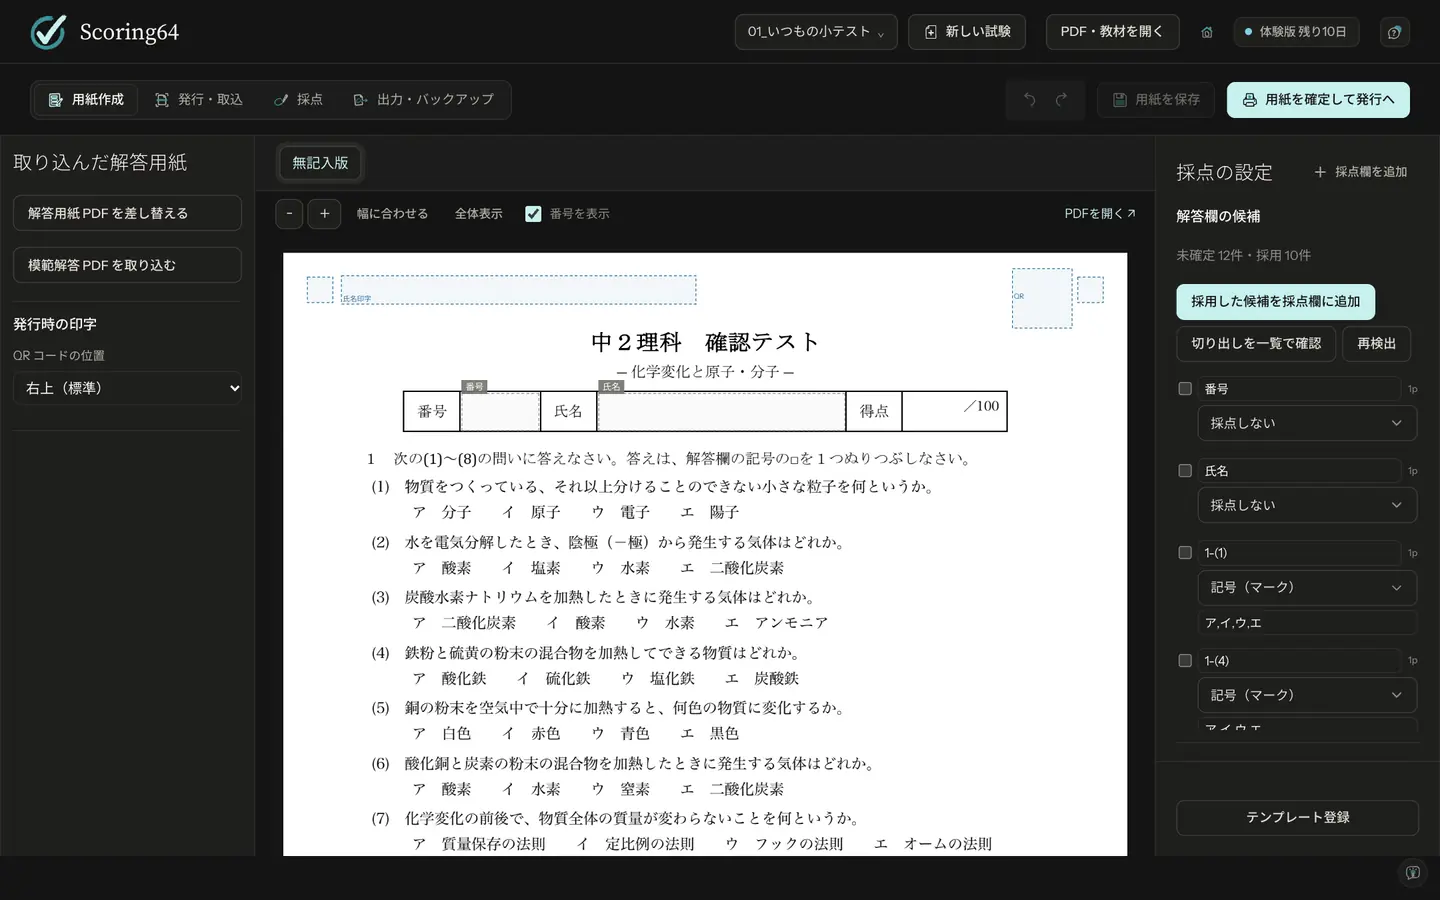
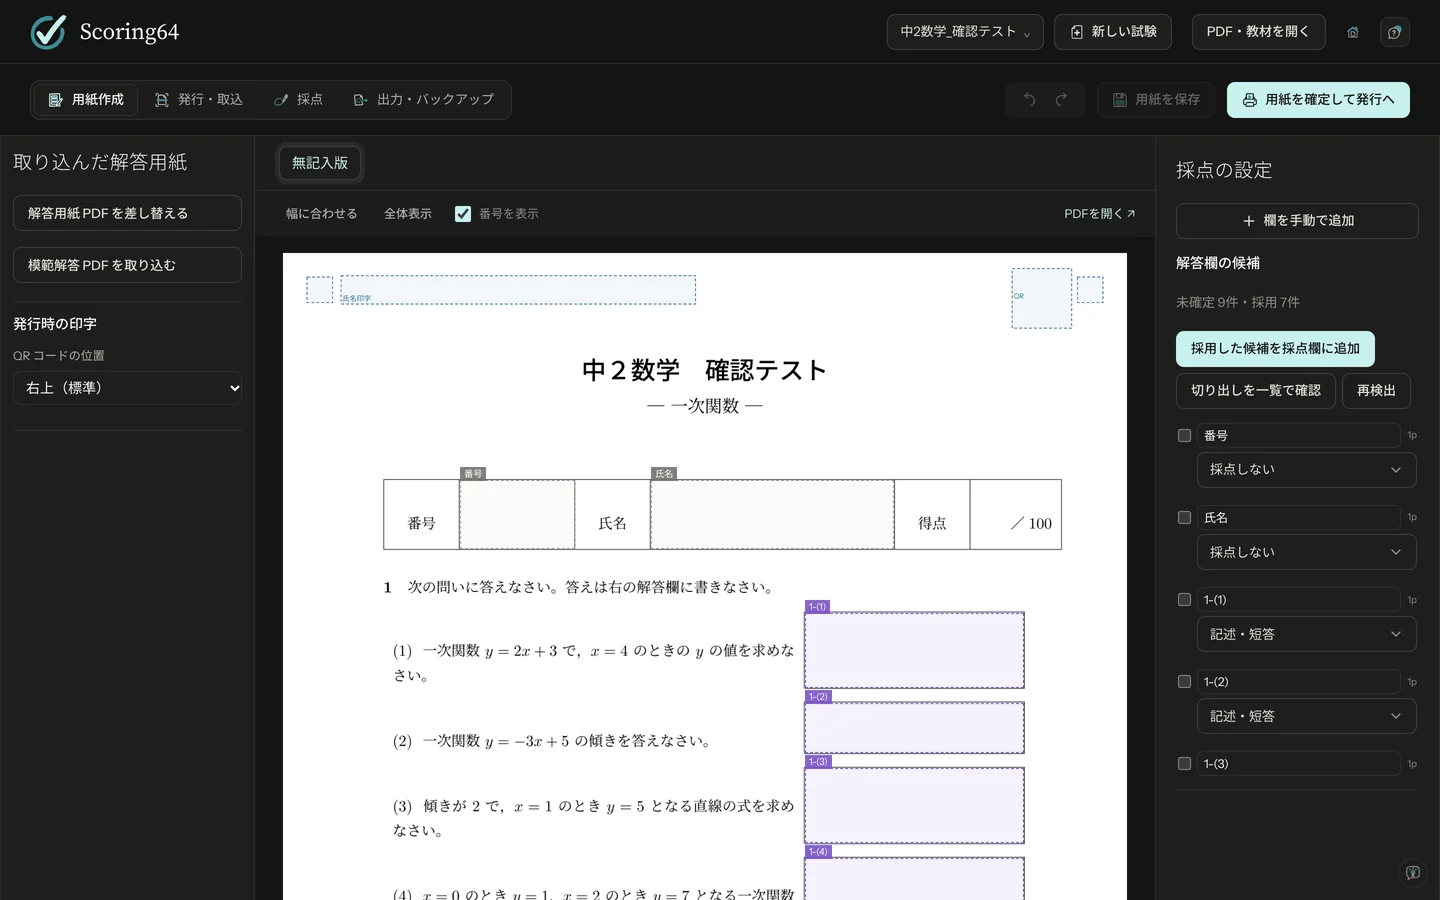
Update help site for 1.0.8: retaken screenshots, manual field panel, key table, 東大 and practice sheets
- Retake every page image from v1.0.8 (welcome, import, crop check, answer key,
  issue panel, scans, grading, export, free mark reader); the import and grading
  shots use a text-answer quiz and the free reader uses KKran oval bubbles
- Add the 「欄を手動で追加」 steps with a new screenshot (s07-manual.webp)
- Describe the reworked key table (正解を続けて入力, 配点をそろえる,
  Excelから貼り付け, 満点（予定）, warnings before confirming) and the mode names
- 東大 sheets are A3 only; add the 数学・理科 practice sheets (A4・B5), the docked
  text editor, numbering and sub-headings
- Point the README Mac link at the published Scoring64-mac-arm64.zip; FAQ and
  contact wording for 1.0.8

diff --git a/guide.html b/guide.html
@@ -75,15 +75,27 @@
       </ol>
       <div class="note">
         <span class="note-label">NOTE</span>
-        <p>候補は、見落としや間違いが出ることがあります。必ず目で確かめてください。足りない欄は<span class="ui">「採点欄を追加」</span>で描き足せます。</p>
+        <p>候補は、見落としや間違いが出ることがあります。必ず目で確かめてください。足りない欄は、右の欄の<span class="ui">「欄を手動で追加」</span>で描き足せます（<a href="#manual">下の手順</a>）。</p>
       </div>
       <figure class="shot wide">
-        <a class="zoom" href="assets/img/s06-import.webp"><img src="assets/img/s06-import.webp" width="1440" height="900" loading="lazy" alt="Wordで作った理科の小テストを取り込んだ画面。記号の欄が橙、記述の欄が紫の枠で囲まれ、右に解答欄の候補の一覧が出ている"></a>
-        <figcaption><span class="fig-no">図 1</span>Word のプリントを取り込んだところ。枠と空欄を候補として出します</figcaption>
+        <a class="zoom" href="assets/img/s06-import.webp"><img src="assets/img/s06-import.webp" width="1440" height="900" loading="lazy" alt="数学の小テストのPDFを取り込んだ画面。解答欄が紫の枠で囲まれ、右に「欄を手動で追加」のボタンと解答欄の候補の一覧が出ている"></a>
+        <figcaption><span class="fig-no">図 1</span>プリントのPDFを取り込んだところ。枠と空欄を候補として出します</figcaption>
       </figure>
       <figure class="shot wide">
         <a class="zoom" href="assets/img/s07-crop-check.webp"><img src="assets/img/s07-crop-check.webp" width="1440" height="900" loading="lazy" alt="切り出しの一覧。問題ごとに切り出す範囲が並んでいる"></a>
         <figcaption><span class="fig-no">図 2</span>切り出しの確認</figcaption>
+      </figure>
+      <h3 id="manual">欄を手動で追加する</h3>
+      <ol class="steps">
+        <li>右の欄の<span class="ui">「欄を手動で追加」</span>を押します。</li>
+        <li>紙面をドラッグして、足したい範囲を囲みます。囲み直すと範囲を置きかえます。</li>
+        <li>右に出る設定で、欄名・種類（氏名・番号・解答欄・その他）・採点するかどうか・所属を選びます。ページや枠をまたぐ解答は、所属を<span class="ui">「既存の欄の続き」</span>にすると同じ問題として採点します。</li>
+        <li><span class="ui">「追加する」</span>を押します。続けて囲むと、次の欄を足せます。終わったら<span class="ui">「追加を終える」</span>を押します。</li>
+      </ol>
+      <p>追加した範囲は、選んでから <span class="key">Delete</span> で消せます。矢印キーで動かし、<span class="key">Shift</span> + 矢印キーで大きさを変えられます。</p>
+      <figure class="shot wide">
+        <a class="zoom" href="assets/img/s07-manual.webp"><img src="assets/img/s07-manual.webp" width="1440" height="900" loading="lazy" alt="欄を手動で追加の画面。紙面の得点の欄をドラッグで囲み、右に欄名・種類・採点・所属の設定と「追加する」のボタンが出ている"></a>
+        <figcaption><span class="fig-no">図 3</span>欄を手動で追加。囲んだ範囲を、右の設定で追加します</figcaption>
       </figure>
       <div class="caution">
         <span class="note-label">TIPS · プリントを作るとき</span>
@@ -98,13 +110,15 @@
         <summary>アプリで用紙を作るときの操作</summary>
         <div>
           <ol class="steps">
-            <li><span class="ui">「新しい試験」</span>で試験名を入れ、最初の用紙を選びます。<span class="ui">「番号・氏名欄付きの文書」</span>が最初に選ばれています。<span class="ui">「白紙の文書」</span>、<span class="ui">「共通テスト用マークシート」</span>（22科目）、<span class="ui">「登録したテンプレートから作成」</span>（東大の編集版8種を含む）、<span class="ui">「これまでの試験を複製」</span>からも始められます。</li>
+            <li><span class="ui">「新しい試験」</span>で試験名を入れ、最初の用紙を選びます。<span class="ui">「番号・氏名欄付きの文書」</span>が最初に選ばれています。<span class="ui">「白紙の文書」</span>、<span class="ui">「共通テスト用マークシート」</span>（22科目）、<span class="ui">「登録したテンプレートから作成」</span>（東大の解答用紙と、数学・理科の練習用解答用紙を含む）、<span class="ui">「これまでの試験を複製」</span>からも始められます。</li>
             <li>紙面をクリックして追加する位置を決め、<span class="ui">「＋ 部品を追加」</span>で解答欄・文字・数式・図などを置きます。欄は、<span class="ui">「追加先」</span>に出ている大問に入ります。自動のままでも、大問を選んでもかまいません。</li>
-            <li>紙面の何もないところをドラッグすると、触れた欄をまとめて選べます（<span class="key">Ctrl</span> + <span class="key">A</span> ですべて）。選んだ欄は、<span class="key">Ctrl</span> + <span class="key">C</span>・<span class="key">X</span>・<span class="key">V</span> でコピー・切り取り・貼り付けできます。</li>
+            <li>文字や数式の部品は、追加するとすぐ横に入力欄が開きます。書きかけの数式も消えません。</li>
+            <li>番号は、置いた大問の中で順に振られます。番号の囲み（(1)・①など）は欄ごとに選べます。大問の下に小問見出しを置くこともできます。</li>
+            <li>紙面の何もないところをドラッグすると、触れた欄をまとめて選べます（<span class="key">Ctrl</span> + <span class="key">A</span> ですべて。Mac では <span class="key">Ctrl</span> の代わりに <span class="key">Command</span>）。選んだ欄は、<span class="key">Ctrl</span> + <span class="key">C</span>・<span class="key">X</span>・<span class="key">V</span> でコピー・切り取り・貼り付けできます。</li>
             <li>文字の書体は、メニューから選べます。このパソコンにある書体は<span class="ui">「その他の書体」</span>に並びます。</li>
             <li>よく使う用紙は、<span class="ui">「テンプレート登録」</span>で保存しておけます。</li>
           </ol>
-          <p class="muted small">紙面は画面でそのまま描き、TeX は裏で仕上がりを確かめます。東大の編集版は配点が0点から始まるので、確定する前に入れてください。</p>
+          <p class="muted small">紙面は画面でそのまま描き、TeX は裏で仕上がりを確かめます。東大の解答用紙は A3 版です（以前に A4 版で作った試験も、そのまま印刷・採点できます）。練習用解答用紙は数学・理科の A4・B5 で、1問分の解答欄と日付・番号・氏名の欄があります。どちらも配点が0点から始まるので、確定する前に入れてください。</p>
         </div>
       </details>
     </div>
@@ -116,24 +130,24 @@
       <h2 id="step2-title">正解と配点</h2>
       <ol class="steps">
         <li>右の欄の<span class="ui">「正解・配点を一覧で入力」</span>を押します。</li>
-        <li>記号問題は、<span class="ui">「連続入力の開始欄」</span>を選び、正解を順に打って<span class="ui">「正解を反映」</span>を押します（例：<code>3142</code>）。Excel の正解表を貼り付けることもできます。記述問題の「正解」に模範解答を書いておくと、採点のときに画面の上に出ます。</li>
-        <li>配点と採点方式を選びます。</li>
-        <li>右上の<span class="ui">「用紙を確定して発行へ」</span>を押します。確かめる点が一覧で出るので、<span class="ui">「保存して確定する」</span>を押します。保存・印刷用PDFの作成・用紙版の確定が続けて進みます。</li>
+        <li>記号問題は、正解の選択肢をクリックします。まとめて入れるときは<span class="ui">「正解を続けて入力」</span>を押し、開始欄を選んで正解を順に打ち、<span class="ui">「正解を反映」</span>を押します（例：<code>3142</code>）。Excel の正解表は<span class="ui">「Excelから貼り付け」</span>で入れられます。記述問題の「正解」に模範解答を書いておくと、採点のときに画面の上に出ます。</li>
+        <li>配点と採点方式を選びます。同じ配点は<span class="ui">「配点をそろえる」</span>でまとめて入れられます。上の<span class="ui">「満点（予定）」</span>に満点を入れておくと、合計と合っているかを横に出します。</li>
+        <li>右上の<span class="ui">「用紙を確定して発行へ」</span>を押します。確かめる点が一覧で出るので、<span class="ui">「保存して確定する」</span>を押します。選択肢から外れた別解や、整数でない配点があるときは、ここで知らせます。保存・印刷用PDFの作成・用紙版の確定が続けて進みます。</li>
       </ol>
       <figure class="shot wide">
-        <a class="zoom" href="assets/img/s08-answer-key.webp"><img src="assets/img/s08-answer-key.webp" width="1440" height="900" loading="lazy" alt="正解・配点の入力の画面。上に連続入力の開始欄と正解を入れる欄、下に問題ごとの正解、配点、採点方式の行が並ぶ"></a>
-        <figcaption><span class="fig-no">図 3</span>正解・配点の一覧</figcaption>
+        <a class="zoom" href="assets/img/s08-answer-key.webp"><img src="assets/img/s08-answer-key.webp" width="1440" height="900" loading="lazy" alt="正解・配点の入力の画面。上に合計と満点（予定）、「正解を続けて入力」の開始欄と正解を入れる欄、下に問題ごとの正解、配点、採点方式の行が並ぶ"></a>
+        <figcaption><span class="fig-no">図 4</span>正解・配点の一覧</figcaption>
       </figure>
       <details class="more">
         <summary>採点方式の一覧</summary>
         <div>
           <table class="table">
-            <tr><th scope="row">手動</th><td>記述問題。画面で先生が採点します</td></tr>
+            <tr><th scope="row">手動採点</th><td>記述問題。画面で先生が採点します</td></tr>
             <tr><th scope="row">単答</th><td>記号1つで正解</td></tr>
             <tr><th scope="row">完答</th><td>複数の欄がすべて合って正解</td></tr>
             <tr><th scope="row">順不同（部分点）</th><td>順番は問わず、合った数だけ点</td></tr>
-            <tr><th scope="row">順不同完答</th><td>順番は問わず、すべて合って正解</td></tr>
-            <tr><th scope="row">全員正解</th><td>出題ミスのとき。全員に満点</td></tr>
+            <tr><th scope="row">順不同・完答</th><td>順番は問わず、すべて合って正解</td></tr>
+            <tr><th scope="row">全員正解（出題ミスなど）</th><td>出題ミスのとき。全員に満点</td></tr>
           </table>
         </div>
       </details>
@@ -161,8 +175,8 @@
           </div>
         </div>
         <figure class="shot tall">
-          <a class="zoom" href="assets/img/s09-issue.webp"><img src="assets/img/s09-issue.webp" width="420" height="1090" loading="lazy" alt="用紙の発行の欄。新しく発行する人数、名簿CSVを選ぶ、氏名・生徒番号を事前印字、印刷用PDFを作成のボタンが並び、下にスキャンPDFを入れる欄がある"></a>
-          <figcaption><span class="fig-no">図 4</span>用紙の発行</figcaption>
+          <a class="zoom" href="assets/img/s09-issue.webp"><img src="assets/img/s09-issue.webp" width="420" height="1275" loading="lazy" alt="用紙の発行の欄。新しく発行する人数、名簿CSVを選ぶ、氏名・生徒番号を事前印字、印刷用PDFを作成のボタンと、発行した用紙のダウンロードが並び、下にスキャンPDFを入れる欄がある"></a>
+          <figcaption><span class="fig-no">図 5</span>用紙の発行</figcaption>
         </figure>
       </div>
     </div>
@@ -185,7 +199,7 @@
       </table>
       <figure class="shot wide">
         <a class="zoom" href="assets/img/s09-scan.webp"><img src="assets/img/s09-scan.webp" width="1440" height="900" loading="lazy" alt="発行・取込のタブ。左に用紙の発行とスキャンPDFの取り込み、右に取り込んだ5人分の答案が並ぶ"></a>
-        <figcaption><span class="fig-no">図 5</span>発行・取込のタブ。左で発行し、右で取り込んだ答案を確かめます</figcaption>
+        <figcaption><span class="fig-no">図 6</span>発行・取込のタブ。左で発行し、右で取り込んだ答案を確かめます</figcaption>
       </figure>
     </div>
   </section>
@@ -204,8 +218,8 @@
         <li>必要なら<span class="ui">「コメントを置く」</span>（C キー）で答案に書き込みます。</li>
       </ol>
       <figure class="shot wide">
-        <a class="zoom" href="assets/img/s10-grading.webp"><img src="assets/img/s10-grading.webp" width="1440" height="900" loading="lazy" alt="記述問題の採点画面。上に模範解答の欄、中央に生徒の答案、下に満点・0点・部分点の3つのボタン、右に採点内容の一覧が出ている"></a>
-        <figcaption><span class="fig-no">図 6</span>1人ずつ採点。上に模範解答（登録したとき）、右に採点の一覧</figcaption>
+        <a class="zoom" href="assets/img/s10-grading.webp"><img src="assets/img/s10-grading.webp" width="1440" height="900" loading="lazy" alt="記述問題の採点画面。上に模範解答、中央に生徒の答案、下に満点・0点・部分点の3つのボタン、右に採点内容の一覧が出ている"></a>
+        <figcaption><span class="fig-no">図 7</span>1人ずつ採点。上に模範解答（登録したとき）、右に採点の一覧</figcaption>
       </figure>
       <div class="note">
         <span class="note-label">正解を直すとき</span>
@@ -228,7 +242,7 @@
       </div>
       <figure class="shot wide">
         <a class="zoom" href="assets/img/s11-export.webp"><img src="assets/img/s11-export.webp" width="1440" height="900" loading="lazy" alt="出力・バックアップのタブ。左に「返却ZIPを作成」、右に「全試験をバックアップ」と「バックアップから復元」のボタンがある"></a>
-        <figcaption><span class="fig-no">図 7</span>出力・バックアップのタブ</figcaption>
+        <figcaption><span class="fig-no">図 8</span>出力・バックアップのタブ</figcaption>
       </figure>
       <h3>バックアップ</h3>
       <p><span class="ui">「全試験をバックアップ」</span>で、すべての試験を1つのファイル（<code>.scoring64</code>）に保存します。採点が終わるたびに取り、USBメモリなど別の場所にも置いてください。戻すときは<span class="ui">「バックアップから復元」</span>です。</p>
@@ -239,7 +253,7 @@
   <h2 id="free-marks-title">無料のマークシート読み取り・採点</h2>
   <p>最初の画面の<span class="ui">「マークシート読み取り」</span>を押します。期限なし・キー不要で、答案はこのPCで処理します。</p>
   <ol class="steps"><li>未記入の用紙（1ページのPDF）と答案PDF（100ページまで）を選びます。各PDFは20MB以内。同じページサイズ・向きにそろえてください。</li><li>用紙上で最初のマーク欄の左上をクリックし、問題数・選択肢数・横間隔・縦間隔・マーク欄の大きさを入力します。赤い枠をマーク欄に合わせます。等間隔のマーク欄に対応します。</li><li>「読み取る」を押します。選択肢は左から1、2、3…です。「複数マーク」「要確認」は答案と見比べてください。</li><li>正答と配点を問題順に入力して「読み取り・採点」を押すと、正誤・得点・ページごとの合計点を計算します。「結果CSV」で保存できます。要確認があるページも、読み取り候補で採点して合計点と要確認の問数を表示します（複数マークや候補のない問題は0点です）。要確認の答案は用紙と見比べ、合計点をそのまま確定した点にしないでください。記述採点・成績表・返却PDFの作成は有料版の機能です。</li></ol>
-  <figure class="shot"><a class="zoom" href="assets/img/free-marks.png"><img src="assets/img/free-marks.png" width="1440" height="900" loading="lazy" alt="無料のマークシート読み取り画面。未記入の用紙・答案PDFと、正答・配点を入力する欄"></a><figcaption>無料のマークシート読み取り</figcaption></figure>
+  <figure class="shot"><a class="zoom" href="assets/img/free-marks.png"><img src="assets/img/free-marks.png" width="1440" height="900" loading="lazy" alt="無料のマークシート読み取り画面。未記入の用紙の上で、10問分のマーク欄に赤い枠を合わせ、下に問題数・選択肢数・位置・間隔・大きさと、正答・配点を入れた欄が並ぶ"></a><figcaption>無料のマークシート読み取り</figcaption></figure>
 </div></section>
 </main>
 

diff --git a/faq.html b/faq.html
@@ -69,7 +69,7 @@
       <div class="qa" id="q-candidates">
         <h3>解答欄の候補が出ない・足りない</h3>
         <div class="a">
-          <p>Word・Excel から直接PDFに保存したファイルを使うと、見つかりやすくなります。足りない欄は<span class="ui">「採点欄を追加」</span>で描き足せます。</p>
+          <p>Word・Excel から直接PDFに保存したファイルを使うと、見つかりやすくなります。足りない欄は<span class="ui">「欄を手動で追加」</span>で紙面を囲んで描き足せます（<a href="guide.html#manual">手順</a>）。</p>
         </div>
       </div>
 

diff --git a/contact.html b/contact.html
@@ -52,7 +52,7 @@
       <h3>書いていただきたいこと</h3>
       <ul class="dots">
         <li>塾名・教室名</li>
-        <li>アプリの版（例：1.0.7。<span class="ui">「？」</span>のメニューに出ます）</li>
+        <li>アプリの版（例：1.0.8。<span class="ui">「？」</span>のメニューに出ます）</li>
         <li>ライセンスID（右上のキーの表示を押すと出ます。<code>L-</code> で始まる番号）</li>
         <li>困っている画面の写真</li>
       </ul>

diff --git a/README.md b/README.md
@@ -7,7 +7,7 @@
 ## ダウンロード
 
 - Windows：[最新版をダウンロード](https://github.com/Fermion-company/scoring64-download/releases/latest/download/Scoring64-Setup.exe)（`Scoring64-Setup.exe`）
-- Mac（Apple Silicon）：[最新版のページ](https://github.com/Fermion-company/scoring64-download/releases/latest)の「Assets」から `Scoring64-版-mac-arm64.zip` をダウンロードし、開いてできた `Scoring64.app` を「アプリケーション」フォルダに移します。
+- Mac（Apple Silicon）：[最新版をダウンロード](https://github.com/Fermion-company/scoring64-download/releases/latest/download/Scoring64-mac-arm64.zip)（`Scoring64-mac-arm64.zip`）。開いてできた `Scoring64.app` を「アプリケーション」フォルダに移します。
 
 一度入れると、新しい版が出たときはアプリの中でお知らせし、再起動するだけで更新できます。
 
